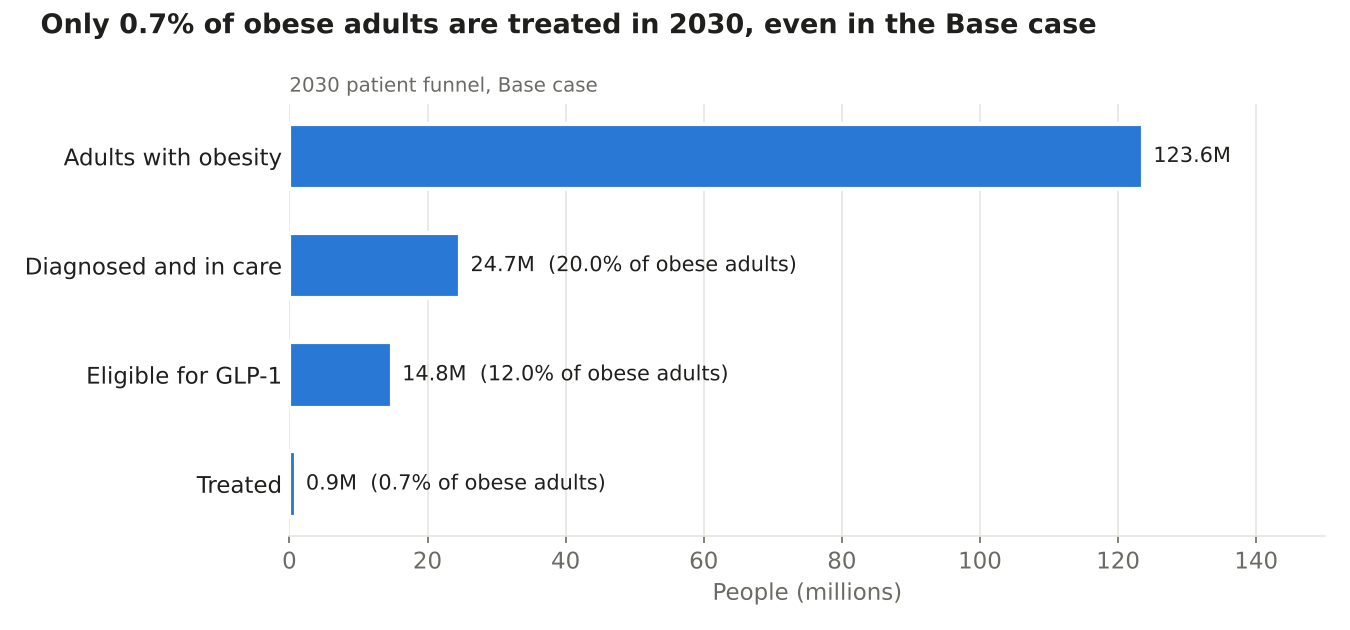
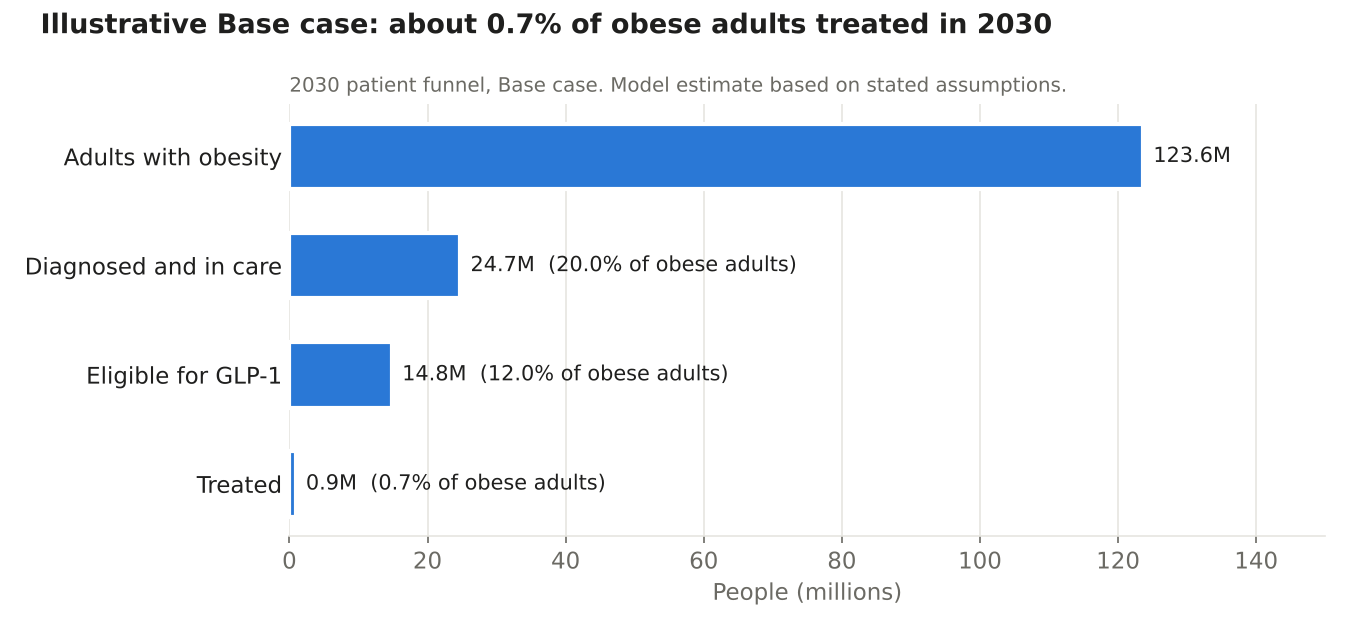
Add files via upload

Changed region(s): [[0.0311, 0.0, 0.8089, 0.0603], [0.4356, 0.1206, 0.7778, 0.1508]]

diff --git a/README.md b/README.md
@@ -1,12 +1,16 @@
 # India GLP-1 Obesity Market Sizing Model
 
+> **Illustrative model, not a forecast.** All outputs are scenario estimates produced from public data and stated assumptions. They are sample results that show how the model works, not verified market figures. Several key inputs (diagnosis, eligibility and uptake rates) have no published India data and are assumptions; see [Assumptions](#assumptions) and [Limitations](#limitations).
+
 **Question:** How large could India's GLP-1 obesity drug market be by 2030, and what drives that number?
 
-**Answer:** In the Base case, the market roughly doubles from ₹1,020 crore in 2025 to **₹2,070 crore (US$218 million) in 2030**, with about 890,000 patients on treatment. Across scenarios the 2030 market ranges from ₹1,035 crore to ₹2,760 crore.
+**Illustrative answer:** Under the Base-case assumptions, the model estimates the market roughly doubling from ₹1,020 crore in 2025 to **₹2,070 crore (US$218 million) in 2030**, with about 890,000 patients on treatment. Across scenarios the 2030 estimate ranges from ₹1,035 crore to ₹2,760 crore.
 
 ![Market size by scenario](images/market_by_scenario.png)
 
-## Key findings
+## Key insights (illustrative)
+
+These insights describe what the model's Base case shows under its assumptions. They are not verified findings.
 
 1. **The market doubles, but patient numbers grow more than eightfold.** Base-case value grows from ₹1,020 crore to ₹2,070 crore (15% a year), while treated patients rise from about 104,000 to 890,000. The gap is price: generic semaglutide pushes the average monthly price down 76%, from ₹14,000 to about ₹3,300.
 2. **Growth stalls by 2029 as falling prices offset volume.** The Base-case market peaks at ₹2,144 crore in 2029 and dips to ₹2,070 crore in 2030. After generic entry, revenue growth depends on adding patients faster than prices fall, which favours low-cost, high-volume players.
@@ -50,6 +54,7 @@ Three scenarios (Low, Base, High) vary **uptake only**. All other inputs, includ
 
 ## Limitations
 
+- **Results are sample estimates, not verified findings.** They depend on the assumptions above and should not be used as a market forecast.
 - **Diagnosis and eligibility are assumptions.** No published India data was found, and both directly scale the result.
 - **Obesity figures are age-standardised.** NCD-RisC adjusts prevalence to a standard world population, so India's actual (crude) prevalence may differ slightly.
 - **Women and men are averaged equally.** This assumes roughly equal adult numbers by sex.
